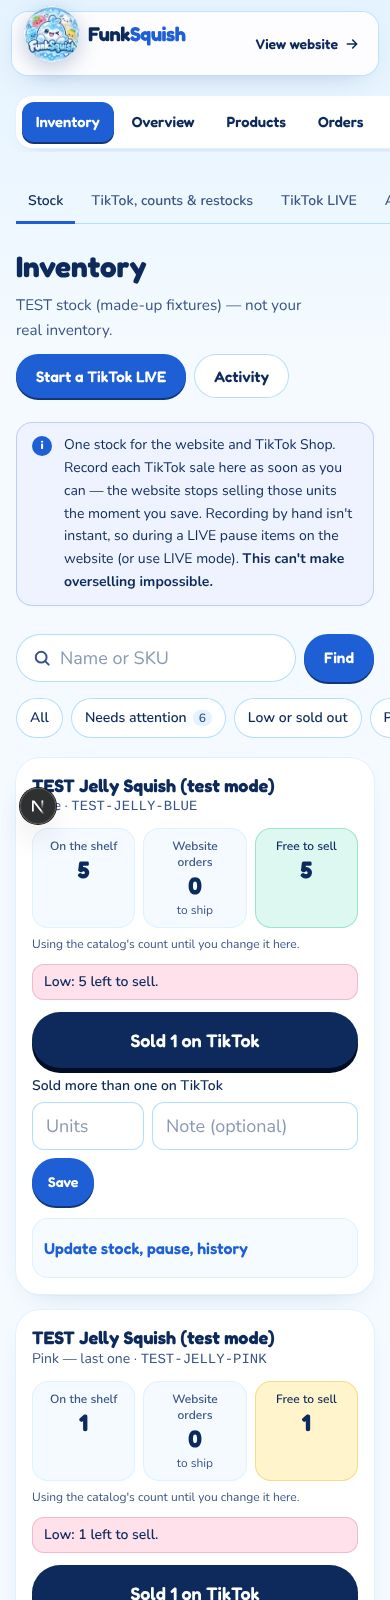
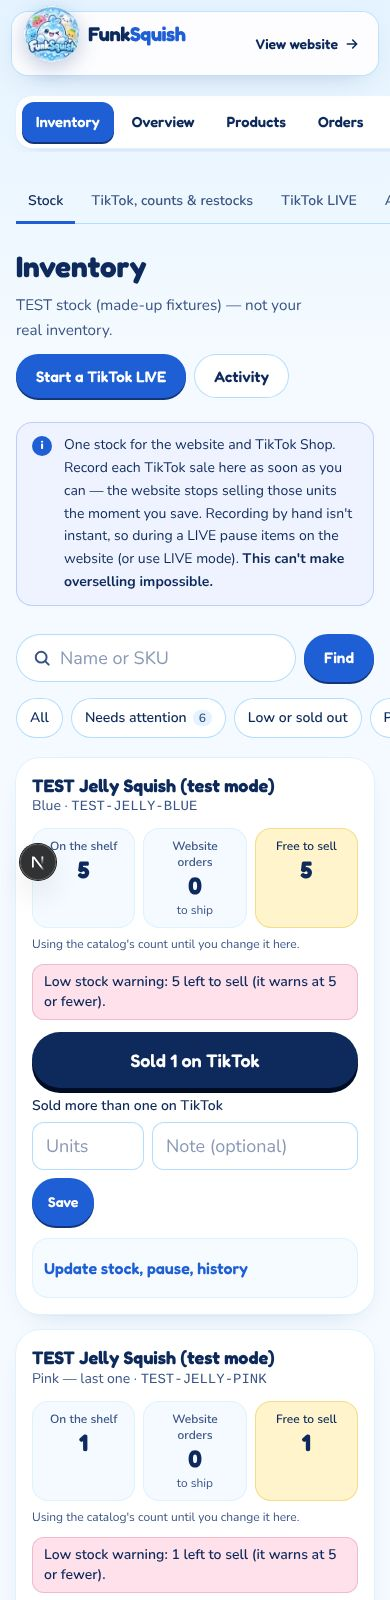
Owner UI review: collapsible launch checklist on phones, jump links land under the owner bar, clearer Low stock wording
- Phones: the launch checklist is a compact panel (progress, first blockers,
  Show/Hide checklist). Desktop keeps the full sticky checklist. Readiness
  checks and publish controls are unchanged.
- Owner sections no longer add their own scroll margin on top of the site's
  scroll padding, so jump links land just below the owner bar.
- Inventory: the Low warning says it's a warning level (5 or fewer), and the
  free-to-sell tile and LIVE pills use that same level (display only).
- Owner bar: short 'Website' link under 360px; logo loads eagerly.

Claude-Session: https://claude.ai/code/session_01LxQHU5q4PsiTmifJqCFacz

Changed region(s): [[0.0615, 0.5, 0.9231, 1.0], [0.0308, 0.4688, 0.1538, 0.5625]]

diff --git a/src/app/partners/review/products/[id]/page.tsx b/src/app/partners/review/products/[id]/page.tsx
@@ -65,6 +65,7 @@ async function Editor({ params, searchParams }: { params: PageProps<"/partners/r
   const p = r.product;
 
   const done = readiness.items.filter((i) => i.ok).length;
+  const blockers = readiness.items.filter((i) => !i.ok).map((i) => i.label);
 
   return (
     <div>
@@ -129,35 +130,54 @@ async function Editor({ params, searchParams }: { params: PageProps<"/partners/r
 
       <div className="grid items-start gap-6 lg:grid-cols-[minmax(0,1fr)_21rem]">
         <aside className="space-y-4 lg:sticky lg:top-28 lg:order-last">
-          <section id="publish" aria-labelledby="ready" className={cn(card, "scroll-mt-28", readiness.ready ? "ring-2 ring-[#9fe3cf]" : "")}>
-            <h2 id="ready" className="font-display text-lg font-bold text-ink">
-              Launch checklist
-            </h2>
-            <div className="mt-3">
-              <Progress done={done} total={readiness.items.length} label={readiness.ready ? "Ready to publish" : "Items done"} />
+          <section id="publish" aria-labelledby="ready" className={cn(card, "scroll-mt-2", readiness.ready ? "ring-2 ring-[#9fe3cf]" : "")}>
+            {/* Phones: a compact summary that opens on demand, so the forms below are one short scroll away. */}
+            <details className="group lg:hidden">
+              <summary className="-m-2 flex cursor-pointer list-none flex-col gap-2 rounded-2xl p-2 focus-visible:outline focus-visible:outline-[3px] focus-visible:outline-royal [&::-webkit-details-marker]:hidden">
+                <span className="flex items-center justify-between gap-3">
+                  <h2 id="ready" className="font-display text-lg font-bold text-ink">
+                    Launch checklist
+                  </h2>
+                  <span className="shrink-0 text-sm font-semibold tabular-nums text-ink-soft">
+                    {done}/{readiness.items.length}
+                    <span className="sr-only"> done</span>
+                  </span>
+                </span>
+                <span aria-hidden="true" className="block h-1.5 overflow-hidden rounded-full bg-ice">
+                  <span className={cn("block h-full rounded-full", readiness.ready ? "bg-[#1d9e7e]" : "bg-royal")} style={{ width: `${readiness.items.length ? Math.round((done / readiness.items.length) * 100) : 0}%` }} />
+                </span>
+                <span className="text-sm leading-snug text-ink">
+                  {readiness.ready ? (
+                    "Every item passes — ready to publish."
+                  ) : (
+                    <>
+                      <span className="font-semibold">Still needed:</span> {blockers.slice(0, 2).join(", ")}
+                      {blockers.length > 2 ? ` and ${blockers.length - 2} more` : ""}.
+                    </>
+                  )}
+                </span>
+                <span className="inline-flex min-h-10 items-center gap-1.5 self-start rounded-full bg-ice-50 px-3.5 text-sm font-semibold text-royal ring-1 ring-inset ring-sky-200">
+                  <span className="group-open:hidden">Show checklist</span>
+                  <span className="hidden group-open:inline">Hide checklist</span>
+                  <span aria-hidden="true" className="transition-transform group-open:rotate-180 motion-reduce:transition-none">
+                    ▾
+                  </span>
+                </span>
+              </summary>
+              <div className="mt-4">
+                <ChecklistItems items={readiness.items} />
+              </div>
+            </details>
+            {/* Desktop: the full checklist, always visible beside the form. */}
+            <div className="hidden lg:block">
+              <h2 className="font-display text-lg font-bold text-ink">Launch checklist</h2>
+              <div className="mt-3">
+                <Progress done={done} total={readiness.items.length} label={readiness.ready ? "Ready to publish" : "Items done"} />
+              </div>
+              <div className="mt-4">
+                <ChecklistItems items={readiness.items} />
+              </div>
             </div>
-            <ul className="mt-4 space-y-2.5">
-              {readiness.items.map((i) => (
-                <li key={i.id} className="flex items-start gap-2.5 text-sm">
-                  <span aria-hidden="true" className={cn("mt-0.5 grid size-5 shrink-0 place-items-center rounded-full text-[0.65rem] font-black", i.ok ? "bg-[#1d9e7e] text-white" : "bg-berry-soft text-[#a3174f] ring-1 ring-inset ring-[#f2b9cd]")}>
-                    {i.ok ? "✓" : "!"}
-                  </span>
-                  <span className="min-w-0">
-                    <span className={cn("font-semibold", i.ok ? "text-ink" : "text-[#a3174f]")}>
-                      {i.label}
-                      <span className="sr-only">{i.ok ? " — done" : " — not done"}</span>
-                    </span>
-                    {!i.ok && (
-                      <ul className="mt-0.5 space-y-0.5 text-xs text-ink-soft">
-                        {i.missing.slice(0, 6).map((m) => (
-                          <li key={m}>· {m}</li>
-                        ))}
-                      </ul>
-                    )}
-                  </span>
-                </li>
-              ))}
-            </ul>
             <PublishControls r={r} ready={readiness.ready} changed={changed} />
           </section>
         </aside>
@@ -244,7 +264,7 @@ function PublishControls({ r, ready, changed }: { r: ProductRecord; ready: boole
 
 function Section({ id, title, lead, children }: { id: string; title: string; lead?: string; children: React.ReactNode }) {
   return (
-    <section id={id} aria-labelledby={`${id}-t`} className={cn(card, "scroll-mt-28")}>
+    <section id={id} aria-labelledby={`${id}-t`} className={cn(card, "scroll-mt-2")}>
       <h2 id={`${id}-t`} className="font-display text-lg font-bold text-ink sm:text-xl">
         {title}
       </h2>
@@ -536,5 +556,33 @@ function Safety({ r }: { r: ProductRecord }) {
         </SaveBar>
       </form>
     </Section>
+  );
+}
+
+/** The launch checklist rows (shown on phones inside the collapsible panel, on desktop beside the form). */
+function ChecklistItems({ items }: { items: { id: string; label: string; ok: boolean; missing: string[] }[] }) {
+  return (
+    <ul className="space-y-2.5">
+      {items.map((i) => (
+        <li key={i.id} className="flex items-start gap-2.5 text-sm">
+          <span aria-hidden="true" className={cn("mt-0.5 grid size-5 shrink-0 place-items-center rounded-full text-[0.65rem] font-black", i.ok ? "bg-[#1d9e7e] text-white" : "bg-berry-soft text-[#a3174f] ring-1 ring-inset ring-[#f2b9cd]")}>
+            {i.ok ? "✓" : "!"}
+          </span>
+          <span className="min-w-0">
+            <span className={cn("font-semibold", i.ok ? "text-ink" : "text-[#a3174f]")}>
+              {i.label}
+              <span className="sr-only">{i.ok ? " — done" : " — not done"}</span>
+            </span>
+            {!i.ok && (
+              <ul className="mt-0.5 space-y-0.5 text-xs text-ink-soft">
+                {i.missing.slice(0, 6).map((m) => (
+                  <li key={m}>· {m}</li>
+                ))}
+              </ul>
+            )}
+          </span>
+        </li>
+      ))}
+    </ul>
   );
 }

diff --git a/src/app/partners/review/inventory/reconcile/page.tsx b/src/app/partners/review/inventory/reconcile/page.tsx
@@ -78,7 +78,7 @@ async function Reconcile({ searchParams }: { searchParams: PageProps<"/partners/
       </section>
 
       <div className="grid gap-5 lg:grid-cols-2">
-        <section id="tiktok" className={cn(card, "scroll-mt-28")} aria-labelledby="tt">
+        <section id="tiktok" className={cn(card, "scroll-mt-2")} aria-labelledby="tt">
           <h2 id="tt" className="font-display text-lg font-bold text-ink sm:text-xl">Upload TikTok Shop orders</h2>
           <p className={cn("mt-1 text-sm", lastDays !== null && lastDays <= 2 ? "text-ink-soft" : "font-semibold text-[#a3174f]")}>
             {last ? `Last upload ${dateTime(last.at)} (${lastDays} day${lastDays === 1 ? "" : "s"} ago): ${last.applied} change(s), ${last.held} held.` : "Never uploaded."}
@@ -99,7 +99,7 @@ async function Reconcile({ searchParams }: { searchParams: PageProps<"/partners/
           </form>
         </section>
 
-        <section id="counts" className={cn(card, "scroll-mt-28")} aria-labelledby="ct">
+        <section id="counts" className={cn(card, "scroll-mt-2")} aria-labelledby="ct">
           <h2 id="ct" className="font-display text-lg font-bold text-ink sm:text-xl">Upload shelf counts</h2>
           <p className="mt-1 text-sm text-ink-soft">A spreadsheet with columns <span className="font-mono">sku,count</span> (and optional <span className="font-mono">note</span>) sets each count. Counts lower than what website orders need are refused unless you tick the box.</p>
           <form action={importCountsAction} className="mt-3 grid gap-2">
@@ -120,7 +120,7 @@ async function Reconcile({ searchParams }: { searchParams: PageProps<"/partners/
           </a>
         </section>
 
-        <section id="restock" className={cn(card, "scroll-mt-28")} aria-labelledby="rs">
+        <section id="restock" className={cn(card, "scroll-mt-2")} aria-labelledby="rs">
           <h2 id="rs" className="font-display text-lg font-bold text-ink sm:text-xl">Record a delivery (restock)</h2>
           <form action={restockAction} className="mt-3 grid gap-2 sm:grid-cols-2">
             <input type="hidden" name="requestId" value={randomUUID()} />
@@ -150,7 +150,7 @@ async function Reconcile({ searchParams }: { searchParams: PageProps<"/partners/
           )}
         </section>
 
-        <section id="supplier-stock" className={cn(card, "scroll-mt-28")} aria-labelledby="ss">
+        <section id="supplier-stock" className={cn(card, "scroll-mt-2")} aria-labelledby="ss">
           <h2 id="ss" className="font-display text-lg font-bold text-ink sm:text-xl">Supplier stock</h2>
           <p className="mt-1 text-sm text-ink-soft">For items a supplier ships: what they last told you. &ldquo;Out&rdquo; or &ldquo;discontinued&rdquo; pauses the item on the website. Older than 7 days is shown as stale.</p>
           {supplierItems.length === 0 ? (

diff --git a/src/app/partners/review/suppliers/[id]/page.tsx b/src/app/partners/review/suppliers/[id]/page.tsx
@@ -100,7 +100,7 @@ async function Detail({ params, searchParams }: { params: PageProps<"/partners/r
 
       <div className="grid gap-5 lg:grid-cols-[1fr_22rem]">
         <div className="min-w-0 space-y-5">
-          <section id="details" className={cn(card, "scroll-mt-28")} aria-labelledby="d">
+          <section id="details" className={cn(card, "scroll-mt-2")} aria-labelledby="d">
             <h2 id="d" className="font-display text-lg font-bold text-ink sm:text-xl">Details, terms &amp; agreement</h2>
             <form action={saveSupplierAction} className="mt-3 grid gap-3 sm:grid-cols-2">
               {hidden}
@@ -165,7 +165,7 @@ async function Detail({ params, searchParams }: { params: PageProps<"/partners/r
             </form>
           </section>
 
-          <section id="quotes" className={cn(card, "scroll-mt-28")} aria-labelledby="q">
+          <section id="quotes" className={cn(card, "scroll-mt-2")} aria-labelledby="q">
             <h2 id="q" className="font-display text-lg font-bold text-ink sm:text-xl">Quotes ({s.quotes.length})</h2>
             <p className="mt-1 text-sm text-ink-soft">Written prices for products you haven&apos;t linked to a SKU yet. They feed the Compare page.</p>
             {s.quotes.length > 0 && (
@@ -221,7 +221,7 @@ async function Detail({ params, searchParams }: { params: PageProps<"/partners/r
             </form>
           </section>
 
-          <section id="log" className={cn(card, "scroll-mt-28")} aria-labelledby="l">
+          <section id="log" className={cn(card, "scroll-mt-2")} aria-labelledby="l">
             <h2 id="l" className="font-display text-lg font-bold text-ink sm:text-xl">Contact history</h2>
             <form action={addLogAction} className="mt-3 grid gap-2 sm:grid-cols-[10rem_1fr_10rem_auto] sm:items-end">
               {hidden}
@@ -256,7 +256,7 @@ async function Detail({ params, searchParams }: { params: PageProps<"/partners/r
             )}
           </section>
 
-          <section id="docs" className={cn(card, "scroll-mt-28")} aria-labelledby="dc">
+          <section id="docs" className={cn(card, "scroll-mt-2")} aria-labelledby="dc">
             <h2 id="dc" className="font-display text-lg font-bold text-ink sm:text-xl">Private documents ({docs.length})</h2>
             <p className="mt-1 text-sm text-ink-soft">Agreements, price lists, catalogs, certificates, invoices. Stored privately; only you can download them. PDF, photo/scan or CSV, up to 4 MB.</p>
             {docs.length > 0 && (

diff --git a/src/components/owner/StockCard.tsx b/src/components/owner/StockCard.tsx
@@ -1,6 +1,6 @@
 import { randomUUID } from "node:crypto";
 import { adjustAction, pauseAction, releaseCanceledAction, resumeAction, tiktokListedAction, undoAction } from "@/app/partners/review/inventory/actions";
-import { ACTION_WARNINGS, KIND_LABEL, type StockRow } from "@/commerce/orders/stock-admin";
+import { ACTION_WARNINGS, KIND_LABEL, LOW_STOCK_WARNING_UNITS, type StockRow } from "@/commerce/orders/stock-admin";
 import { cn } from "./cn";
 import { Pill, card, danger as dangerBtn, input, primary, secondary } from "./OwnerUi";
 
@@ -48,7 +48,7 @@ export function StockCard({ row, back, now, conflict }: { row: StockRow; back: s
   const urgent = row.warnings.filter((w) => ACTION_WARNINGS.has(w.code));
   const reminders = row.warnings.filter((w) => !ACTION_WARNINGS.has(w.code));
   return (
-    <li id={`v-${row.variantId}`} className={cn(card, "scroll-mt-28 p-4 sm:p-5", urgent.some((w) => w.code === "oversold" || w.code === "both-channels-low") && "ring-2 ring-[#d62f6d]")}>
+    <li id={`v-${row.variantId}`} className={cn(card, "scroll-mt-2 p-4 sm:p-5", urgent.some((w) => w.code === "oversold" || w.code === "both-channels-low") && "ring-2 ring-[#d62f6d]")}>
       <div className="flex flex-wrap items-start justify-between gap-2">
         <div className="min-w-0">
           <p className="font-display text-lg font-bold leading-tight text-ink">{row.productName}</p>
@@ -75,7 +75,7 @@ export function StockCard({ row, back, now, conflict }: { row: StockRow; back: s
           <dd className="font-display text-2xl font-bold tabular-nums text-ink">{row.sold}</dd>
           <dd className="text-xs text-ink-soft">to ship{row.held ? ` · ${row.held} in checkout` : ""}</dd>
         </div>
-        <div className={cn("rounded-2xl p-2.5 ring-1 ring-inset", row.free === 0 ? "bg-berry-soft ring-[#f2b9cd]" : row.free <= 3 ? "bg-lemon-soft ring-[#f3dd8a]" : "bg-mint-soft ring-[#9fe3cf]")}>
+        <div className={cn("rounded-2xl p-2.5 ring-1 ring-inset", row.free === 0 ? "bg-berry-soft ring-[#f2b9cd]" : row.free <= LOW_STOCK_WARNING_UNITS ? "bg-lemon-soft ring-[#f3dd8a]" : "bg-mint-soft ring-[#9fe3cf]")}>
           <dt className="text-xs font-semibold text-ink">Free to sell</dt>
           <dd className="font-display text-2xl font-bold tabular-nums text-ink">{row.free}</dd>
         </div>

diff --git a/src/app/partners/review/inventory/live/page.tsx b/src/app/partners/review/inventory/live/page.tsx
@@ -5,7 +5,7 @@ import { reviewConfig } from "@/lib/partners/config";
 import { requireReviewer } from "@/lib/partners/review-auth";
 import { inventoryContext } from "@/commerce/orders/inventory-context";
 import { getLedger } from "@/commerce/orders/inventory";
-import { BOTH_CHANNELS_WARNING_UNITS, currentLive, lastLive, loadStockRows, salesSince } from "@/commerce/orders/stock-admin";
+import { BOTH_CHANNELS_WARNING_UNITS, LOW_STOCK_WARNING_UNITS, currentLive, lastLive, loadStockRows, salesSince } from "@/commerce/orders/stock-admin";
 import { ReviewLogin } from "@/components/partners/ReviewLogin";
 import { INVENTORY_TABS, OwnerNav, OwnerSubNav } from "@/components/owner/OwnerNav";
 import { Callout, Empty, Flash, OwnerShell, PageTitle, Pill, card, input, label, one, panel } from "@/components/owner/OwnerUi";
@@ -83,7 +83,7 @@ async function Live({ searchParams }: { searchParams: PageProps<"/partners/revie
                       <span className="flex-1">
                         <span className="font-semibold">{r.productName}</span> · {r.variantName} <span className="font-mono text-sm text-ink-soft">{r.sku}</span>
                       </span>
-                      <Pill tone={r.free === 0 ? "alert" : r.free <= 3 ? "warn" : "good"}>{r.free} free</Pill>
+                      <Pill tone={r.free === 0 ? "alert" : r.free <= LOW_STOCK_WARNING_UNITS ? "warn" : "good"}>{r.free} free</Pill>
                     </label>
                   </li>
                 ))}

diff --git a/src/components/layout/SiteHeader.tsx b/src/components/layout/SiteHeader.tsx
@@ -24,13 +24,15 @@ function OwnerTopBar() {
       <div className="mx-auto flex max-w-6xl items-center justify-between gap-3 rounded-2xl bg-white/90 py-1.5 pl-3 pr-1.5 shadow-[0_10px_30px_-16px_rgba(19,53,122,0.35)] ring-1 ring-sky-200/80 backdrop-blur-md sm:pl-4">
         <div className="flex min-w-0 items-center gap-3">
           <Link href="/partners/review/today" className="shrink-0 rounded-full" aria-label="Owner dashboard overview">
-            <Logo size="sm" />
+            <Logo size="sm" priority />
           </Link>
           <span aria-hidden="true" className="hidden h-6 w-px bg-sky-200 sm:block" />
           <span className="hidden whitespace-nowrap rounded-full bg-ink px-2.5 py-1 font-display text-xs font-semibold uppercase tracking-[0.12em] text-white sm:inline-block">Owner area</span>
         </div>
         <Link href="/" className="inline-flex min-h-10 items-center gap-1.5 whitespace-nowrap rounded-xl px-3 font-display text-sm font-semibold text-ink hover:bg-ice-50 hover:text-royal focus-visible:outline focus-visible:outline-[3px] focus-visible:outline-offset-2 focus-visible:outline-royal">
-          View website <ArrowRightIcon className="size-4" />
+          <span className="hidden min-[360px]:inline">View website</span>
+          <span className="min-[360px]:hidden">Website</span>
+          <ArrowRightIcon className="size-4" />
         </Link>
       </div>
     </header>

diff --git a/src/commerce/orders/stock-admin.ts b/src/commerce/orders/stock-admin.ts
@@ -350,7 +350,7 @@ export function stockRow(
   else {
     if (sold > onHand) w.push({ code: "oversold", text: `Website orders need ${sold - onHand} more than you have. Check the shelf, then contact those customers.` });
     else if (free === 0 && !ledger?.paused) w.push({ code: "sold-out", text: "Sold out on the website." });
-    else if (free <= LOW_STOCK_WARNING_UNITS) w.push({ code: "low", text: `Low: ${free} left to sell.` });
+    else if (free <= LOW_STOCK_WARNING_UNITS) w.push({ code: "low", text: `Low stock warning: ${free} left to sell (it warns at ${LOW_STOCK_WARNING_UNITS} or fewer).` });
     if (tiktok && item.websiteSellable && !ledger?.paused && free > 0 && free <= BOTH_CHANNELS_WARNING_UNITS)
       w.push({ code: "both-channels-low", text: `On the website and TikTok with only ${free} left — pause it on the website while you sell it on TikTok.` });
   }

diff --git a/src/app/partners/review/marketing/page.tsx b/src/app/partners/review/marketing/page.tsx
@@ -89,7 +89,7 @@ async function Marketing({ searchParams }: { searchParams: PageProps<"/partners/
         ))}
       </div>
 
-      <section id="campaigns" className={cn(card, "mt-5 scroll-mt-28")} aria-labelledby="c">
+      <section id="campaigns" className={cn(card, "mt-5 scroll-mt-2")} aria-labelledby="c">
         <h2 id="c" className="font-display text-lg font-bold text-ink sm:text-xl">Drop &amp; restock alerts</h2>
         <p className="mt-1 text-sm text-ink-soft">
           Draft alerts for real products. An alert can only be sent when it&apos;s true (the product is on the website; for a restock, it&apos;s back in stock and buyable), drop alerts are switched on, sending is approved for Production, and two-step sign-in is set up. The same alert for the same products goes out at most once a day.

diff --git a/src/app/partners/review/orders/[session]/page.tsx b/src/app/partners/review/orders/[session]/page.tsx
@@ -152,7 +152,7 @@ async function Detail({ params, searchParams }: { params: PageProps<"/partners/r
             const items = order.lineItems.filter((l) => f.variantIds.includes(l.variantId));
             const open = order.status !== "canceled";
             return (
-            <div key={f.id} id={`pkg-${f.id}`} className={cn(panel, "scroll-mt-28")}>
+            <div key={f.id} id={`pkg-${f.id}`} className={cn(panel, "scroll-mt-2")}>
               <p className="flex flex-wrap items-center gap-2 font-display font-semibold text-ink">
                 {packageLabel(order, f.id)}
                 <Pill tone={PKG_TONE[f.status] ?? "plain"}>{words(f.status)}</Pill>

diff --git a/src/app/partners/review/products/page.tsx b/src/app/partners/review/products/page.tsx
@@ -124,7 +124,7 @@ async function Products({ searchParams }: { searchParams: PageProps<"/partners/r
         </div>
 
         <aside className="space-y-5 lg:sticky lg:top-28">
-          <form id="new" action={createProductAction} className={cn(card, "grid scroll-mt-28 gap-4")}>
+          <form id="new" action={createProductAction} className={cn(card, "grid scroll-mt-2 gap-4")}>
             <div>
               <h2 className="font-display text-lg font-bold text-ink">New product</h2>
               <p className={hint}>Starts as a private draft. You fill in the rest on the next page.</p>

diff --git a/src/app/partners/review/shipping/page.tsx b/src/app/partners/review/shipping/page.tsx
@@ -123,7 +123,7 @@ async function Shipping({ searchParams }: { searchParams: PageProps<"/partners/r
         </p>
       </section>
 
-      <section id="draft" aria-labelledby="dr" className={cn(card, "mt-8 scroll-mt-28 ring-2 ring-sky-300")}>
+      <section id="draft" aria-labelledby="dr" className={cn(card, "mt-8 scroll-mt-2 ring-2 ring-sky-300")}>
         <div className="flex flex-wrap items-end justify-between gap-2">
           <div>
             <h2 id="dr" className="font-display text-2xl font-bold text-ink">Draft changes (private)</h2>
